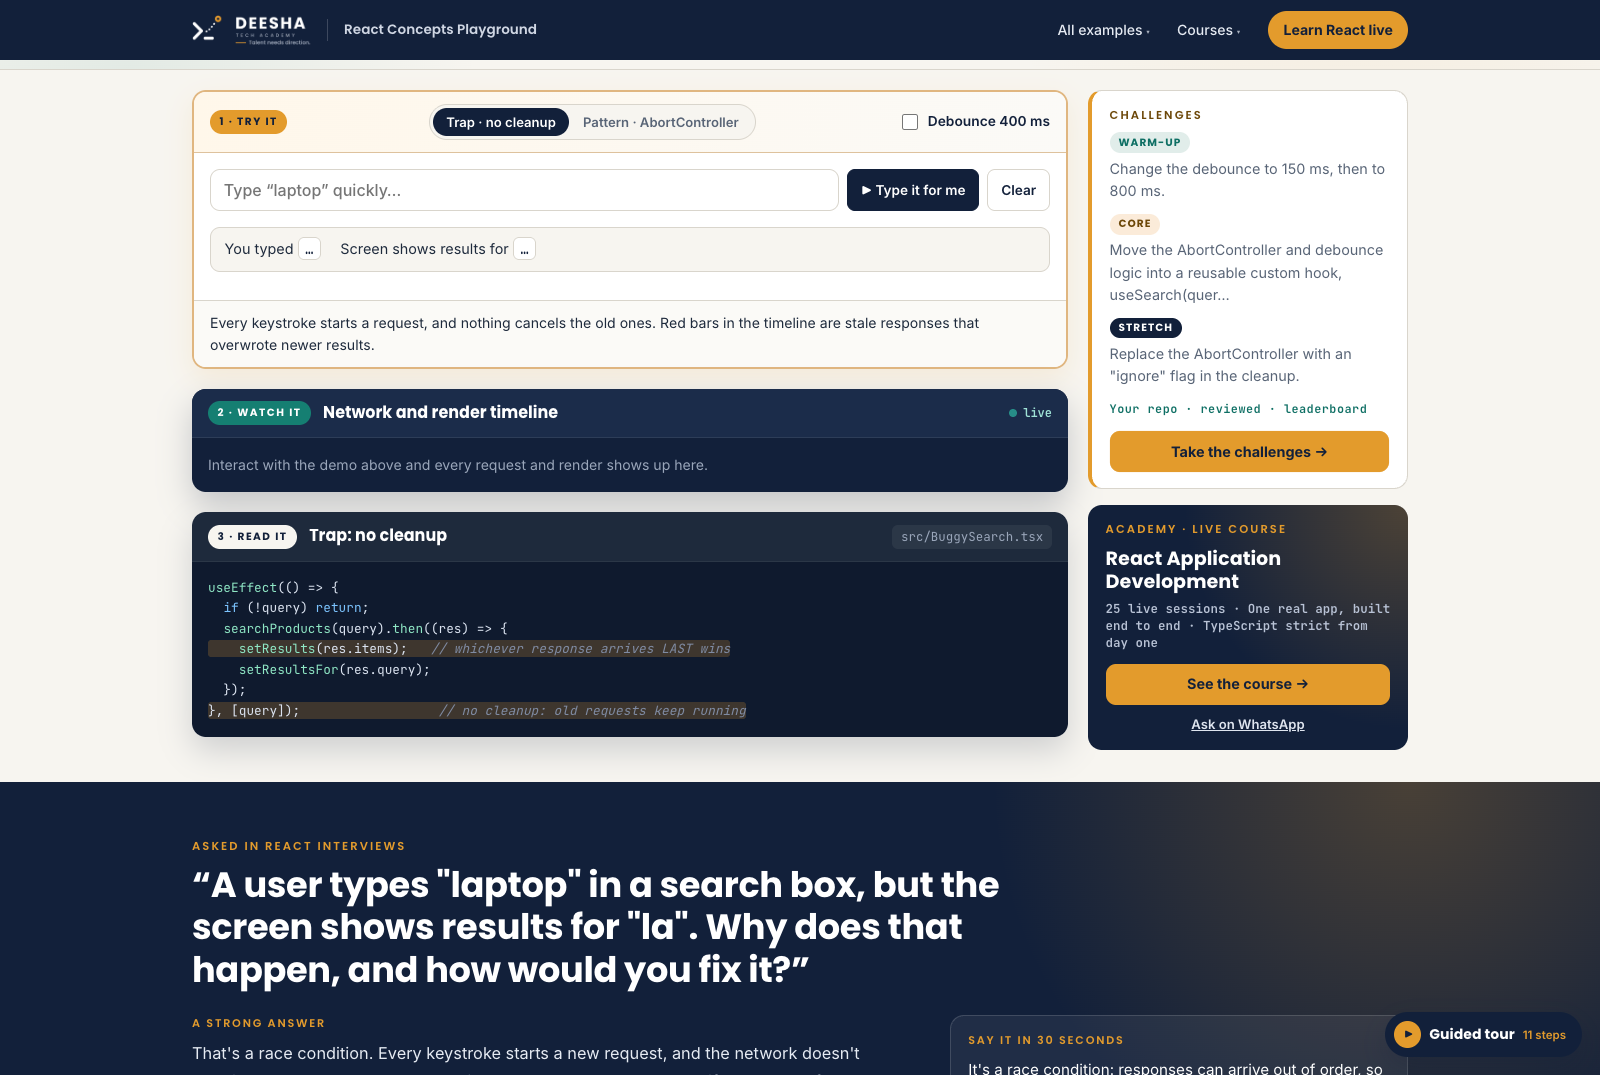
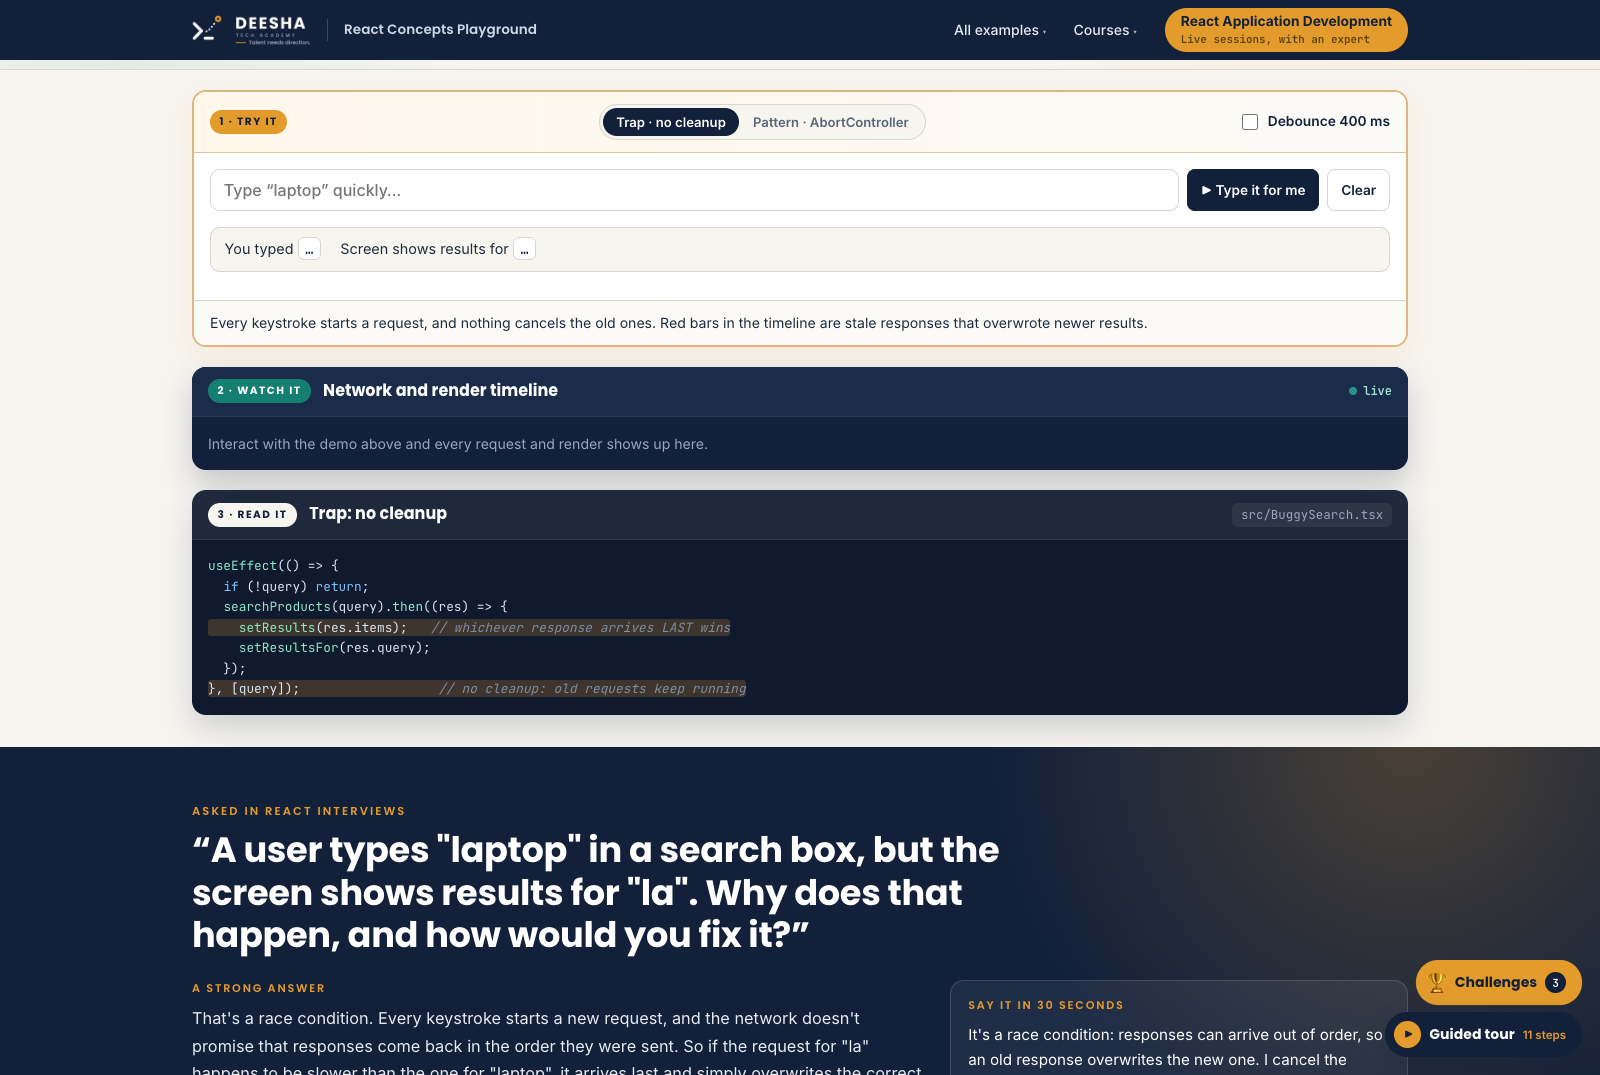
Drawer layout on every example, README screenshots retaken

diff --git a/examples/01-race-conditions/src/episode.ts b/examples/01-race-conditions/src/episode.ts
@@ -4,6 +4,7 @@ export const EPISODE: Episode = {
   n: 1,
   slug: '01-race-conditions',
   title: 'Race Conditions',
+  layout: 'drawer',
   pattern: 'Abort stale requests',
   type: 'React Interview',
   summary: 'You typed "laptop", but the screen shows results for "la": makeup instead of laptops. Responses can come back out of order, and an old one overwrites the new one. Cancel stale requests with AbortController, and debounce the input.',
@@ -28,7 +29,7 @@ export const EPISODE: Episode = {
     { target: '.search-bar', title: 'Type again', text: 'Clear the box and type “laptop” quickly again (or click “Type it for me”), now with the pattern.', action: 'event', event: 'pg-search-settled', after: 300 },
     { target: "section[aria-label='Network and render timeline']", title: 'Cancelled, not overwritten', text: 'Grey bars are cancelled requests. Each keystroke aborts the previous one, so only the latest can update the screen.' },
     { target: '.demo-card[data-code]', title: 'The pattern, in four lines', text: 'Create an AbortController, pass its signal, abort it in the effect cleanup, and ignore the AbortError.' },
-    { target: '.pg-challenge', title: 'Your turn', text: 'Take the challenges in the learning portal: commit your solution to your own repository and get it reviewed.' },
+    { target: '.pg-drawer-pill', title: 'Your turn', text: 'Three challenges on this pattern wait behind this button: your own repository, a trainer review, points and a leaderboard.' },
     { target: '.pg-iv-teaser', title: 'Ready for the interview', text: 'Read how to explain race conditions in an interview, with follow-up questions.' },
     { target: '[data-stage="try"]', title: 'Over to you 🎮', text: 'Now play with it yourself: flip the toggle, try different products or searches, change things and break them. Watch the timeline every time.' },
   ],

diff --git a/examples/19-loaders-vs-useeffect/src/episode.ts b/examples/19-loaders-vs-useeffect/src/episode.ts
@@ -4,6 +4,7 @@ export const EPISODE: Episode = {
   n: 19,
   slug: '19-loaders-vs-useeffect',
   title: 'Loaders vs useEffect',
+  layout: 'drawer',
   pattern: 'Route loaders for page data',
   type: 'React Concept',
   summary: 'Fetching in useEffect starts the request only after the first render, so nested components fetch one after another. A React Router loader fetches before render, in parallel.',
@@ -27,7 +28,7 @@ export const EPISODE: Episode = {
     { target: '.seg button:nth-of-type(2)', title: 'Now the loader version', text: 'Switch to the pattern: the loader version. It reopens the same product.', action: 'click', after: 1600 },
     { target: "section[aria-label='Network and render timeline']", title: 'Parallel, from the click', text: 'Both requests now start the moment you click, side by side. Same data, roughly half the wait.' },
     { target: '.demo-card[data-code]', title: 'The code that makes the difference', text: 'The highlighted lines are the pattern: a loader on the route, and useLoaderData in the component. No useState, no useEffect.' },
-    { target: '.pg-challenge', title: 'Your turn', text: 'Take the challenges in the learning portal: commit your solution to your own repository and get it reviewed.' },
+    { target: '.pg-drawer-pill', title: 'Your turn', text: 'Three challenges on this pattern wait behind this button: your own repository, a trainer review, points and a leaderboard.' },
     { target: '.pg-iv-teaser', title: 'Ready for the interview', text: 'Finally, read how to explain this in an interview: a model answer, a 30-second version and follow-ups.' },
     { target: '[data-stage="try"]', title: 'Over to you 🎮', text: 'Now play with it yourself: flip the toggle, try different products or searches, change things and break them. Watch the timeline every time.' },
   ],

diff --git a/README.md b/README.md
@@ -68,7 +68,7 @@ No installs and no setup. Everything runs in your browser.
 3. **Follow the guided tour.** It starts on your first visit and walks you through the demo step by step: click here, type this, watch that. Restart it any time with the **Guided tour** button at the bottom right.
 4. **Play with the demo yourself.** Use the toggle to switch between the **Trap** and the **Pattern**, and watch the **network and render timeline** show every request and render as it happens.
 5. **Read the highlighted code** under the demo: these are the lines that make the difference.
-6. **Take a challenge** from the sidebar: Warm-up, Core or Stretch. Edit the code on the left; the app reloads as you type.
+6. **Take the challenges.** The **Challenges** button (bottom right) opens three of them: Warm-up, Core and Stretch. Sign in to the learning portal, commit your solution to your own repository, and get it reviewed.
 7. **Read the interview question** at the bottom: a model answer, a 30-second version and the follow-ups interviewers ask.
 8. **Keep your version.** Click **Fork** in StackBlitz (sign in with GitHub) to save your changes to your own account.
 
